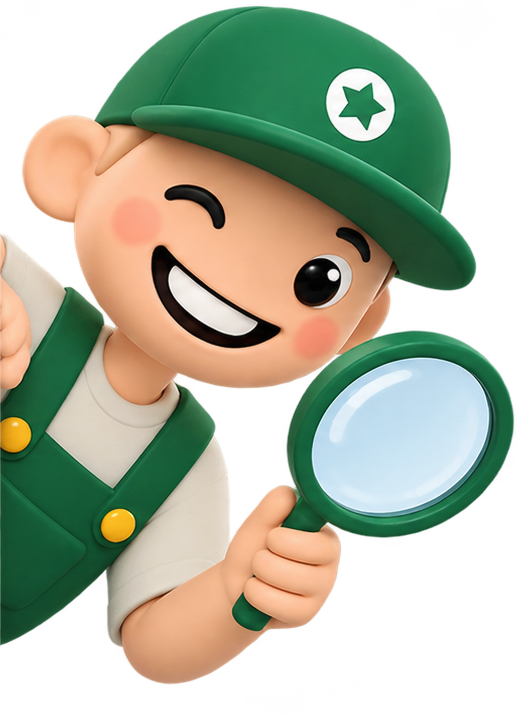
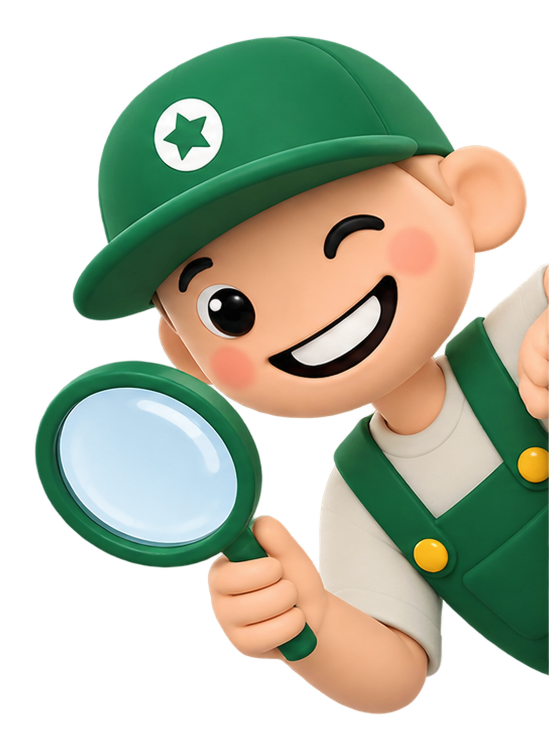
fix(hero): mirror 3D hero mascot with full canvas padding, fix 56px popular queries gap with borderless links, vertical mobile query dropdown list, and 100vh hero section hiding categories on initial load

diff --git a/css/style.css b/css/style.css
@@ -347,12 +347,12 @@ input, textarea, select {
    ========================================================================== */
 .hero {
   background-color: var(--bg-surface);
-  min-height: calc(100vh - 76px);
-  min-height: calc(100svh - 76px);
+  min-height: 100vh;
+  min-height: 100svh;
   display: flex;
   align-items: center;
   justify-content: center;
-  padding: 60px 0; /* Ample top and bottom breathing room */
+  padding: 130px 0 150px; /* Big top and bottom breathing room */
   border-bottom: 1px solid var(--border-light);
   position: relative;
   overflow: hidden;
@@ -364,9 +364,9 @@ input, textarea, select {
   position: absolute;
   right: 0;
   bottom: 0;
-  width: 520px;
-  height: 640px;
-  max-height: 90%;
+  height: 600px;
+  max-height: 82vh;
+  width: auto;
   z-index: 1; /* Graphic behind content */
   pointer-events: none;
   display: flex;
@@ -375,10 +375,11 @@ input, textarea, select {
 }
 
 .hero__mascot-img {
-  width: 100%;
   height: 100%;
+  width: auto;
   object-fit: contain;
   object-position: right bottom;
+  display: block;
   transform-origin: right bottom;
   transition: transform var(--transition-normal);
 }
@@ -489,47 +490,60 @@ input, textarea, select {
   box-shadow: 0 0 0 2px #ffffff, 0 6px 18px rgba(0, 0, 0, 0.16);
 }
 
-/* Popular queries: pushed noticeably lower down, NO grey borders or pills! */
+/* Popular queries: pushed noticeably lower down (56px gap), NO grey borders or pills! */
 .search-tags {
   display: flex;
-  align-items: center;
+  align-items: baseline;
   flex-wrap: wrap;
-  gap: 10px;
-  margin-top: 36px; /* Clearly separated from search bar */
+  gap: 12px;
+  margin-top: 56px !important; /* Clearly separated from search bar */
   position: relative;
   z-index: 6;
-  max-width: 680px;
-}
+  max-width: 720px;
 }
 
 .search-tags__title {
-  font-size: 14px;
+  font-size: 14.5px;
   font-weight: 600;
-  color: var(--text-muted);
-  margin-right: 4px;
+  color: #64748b;
+  margin-right: 6px;
   white-space: nowrap;
+}
+
+.search-tags__list {
+  display: inline-flex;
+  align-items: center;
+  flex-wrap: wrap;
+  gap: 16px;
 }
 
 /* Clean text links without grey borders/pills as requested */
 .tag-chip {
-  padding: 4px 8px;
-  background-color: transparent;
-  border: none;
-  border-radius: 6px;
-  font-size: 14px;
-  color: #64748b;
+  padding: 4px 2px;
+  background-color: transparent !important;
+  border: none !important;
+  box-shadow: none !important;
+  border-radius: 4px;
+  font-size: 14.5px;
+  color: #475569;
   text-decoration: underline;
-  text-decoration-color: rgba(148, 163, 184, 0.45);
+  text-decoration-color: rgba(100, 116, 139, 0.45);
   text-underline-offset: 4px;
   cursor: pointer;
   transition: color var(--transition-fast), text-decoration-color var(--transition-fast);
+  display: inline-flex;
+  align-items: center;
 }
 
 .tag-chip:hover, .tag-chip.active {
-  color: var(--primary);
-  text-decoration-color: var(--primary);
-  background-color: transparent;
+  color: var(--primary) !important;
+  text-decoration-color: var(--primary) !important;
+  background-color: transparent !important;
   font-weight: 500;
+}
+
+.tag-chip__arrow {
+  display: none;
 }
 
 /* ==========================================================================
@@ -1474,20 +1488,21 @@ input, textarea, select {
     grid-template-columns: repeat(3, 1fr);
   }
   .hero__mascot-edge {
-    width: 260px;
-    height: 260px;
+    height: 420px;
+    max-height: 60vh;
+    width: auto;
   }
 }
 
 @media (max-width: 768px) {
   .hero {
-    min-height: calc(100vh - 64px);
-    min-height: calc(100svh - 64px);
-    display: flex;
-    align-items: center;
-    justify-content: center;
-    padding: 36px 0;
-    box-sizing: border-box;
+    min-height: 100vh !important;
+    min-height: 100svh !important;
+    display: flex !important;
+    align-items: center !important;
+    justify-content: center !important;
+    padding: 80px 0 90px !important;
+    box-sizing: border-box !important;
   }
   .hero__content {
     max-width: 100%;
@@ -1500,11 +1515,11 @@ input, textarea, select {
     max-width: 100%; /* Spans across full width of screen as requested */
   }
   .hero__mascot-edge {
-    width: 210px;
-    height: 285px;
-    max-height: 55%;
-    bottom: 0;
-    right: 0;
+    height: 350px !important;
+    max-height: 50vh !important;
+    width: auto !important;
+    bottom: 0 !important;
+    right: 0 !important;
     opacity: 0.95;
   }
   /* In 1 single row on mobile: thick gray input plate + square green search button */
@@ -1539,55 +1554,74 @@ input, textarea, select {
   /* Mobile Popular Queries: vertical dropdown list, 1 line title, no gray pills */
   .search-tags {
     display: none;
-    position: absolute;
-    top: calc(100% + 8px);
-    left: 0;
-    right: 0;
-    width: 100%;
-    background: #ffffff;
-    border: 1px solid var(--border-light);
-    border-radius: 16px;
-    padding: 14px 12px;
-    margin-top: 0;
-    box-shadow: 0 12px 32px rgba(18, 22, 28, 0.14);
-    z-index: 60;
+    position: absolute !important;
+    top: calc(100% + 10px) !important;
+    left: 0 !important;
+    right: 0 !important;
+    width: 100% !important;
+    max-width: 100% !important;
+    background: #ffffff !important;
+    border: 1px solid var(--border-light) !important;
+    border-radius: 18px !important;
+    padding: 16px 14px !important;
+    margin-top: 0 !important;
+    box-shadow: 0 16px 40px rgba(18, 22, 28, 0.16) !important;
+    z-index: 80 !important;
   }
   .search-tags.search-tags--visible-mobile {
     display: flex !important;
     flex-direction: column !important;
     align-items: stretch !important;
-    gap: 4px !important;
+    gap: 6px !important;
     animation: fadeInDown 0.2s ease;
   }
   .search-tags__title {
     white-space: nowrap !important;
     font-size: 12.5px !important;
     font-weight: 700 !important;
-    color: var(--text-muted) !important;
+    color: #94a3b8 !important;
     text-transform: uppercase !important;
-    letter-spacing: 0.5px !important;
-    padding: 2px 8px 8px !important;
-    border-bottom: 1px solid var(--border-light) !important;
+    letter-spacing: 0.6px !important;
+    padding: 4px 10px 10px !important;
+    border-bottom: 1px solid #f1f5f9 !important;
     margin-bottom: 4px !important;
     display: block !important;
+  }
+  .search-tags__list {
+    display: flex !important;
+    flex-direction: column !important;
+    align-items: stretch !important;
+    gap: 4px !important;
+    width: 100% !important;
   }
   .tag-chip {
     display: flex !important;
     align-items: center !important;
+    justify-content: space-between !important;
     width: 100% !important;
-    padding: 11px 12px !important;
+    padding: 12px 14px !important;
     border-radius: 10px !important;
     background: transparent !important;
     border: none !important;
-    font-size: 14.5px !important;
+    box-shadow: none !important;
+    font-size: 15px !important;
     font-weight: 500 !important;
-    color: var(--text-main) !important;
+    color: #1e293b !important;
     text-decoration: none !important;
     cursor: pointer !important;
     text-align: left !important;
   }
+  .tag-chip__arrow {
+    display: block !important;
+    color: #cbd5e1 !important;
+    flex-shrink: 0 !important;
+  }
   .tag-chip:active, .tag-chip:hover {
-    background-color: var(--bg-subtle) !important;
+    background-color: #f8fafc !important;
+    color: var(--primary) !important;
+    text-decoration: none !important;
+  }
+  .tag-chip:active .tag-chip__arrow, .tag-chip:hover .tag-chip__arrow {
     color: var(--primary) !important;
   }
 

diff --git a/index.html b/index.html
@@ -4,7 +4,7 @@
   <meta charset="UTF-8">
   <meta name="viewport" content="width=device-width, initial-scale=1.0">
   <title>Профиум — Сервис проверенных специалистов и объявлений (DLE 19/20)</title>
-  <link rel="stylesheet" href="css/style.css">
+  <link rel="stylesheet" href="css/style.css?v=3.0">
   <link rel="preconnect" href="https://fonts.googleapis.com">
   <link rel="preconnect" href="https://fonts.gstatic.com" crossorigin>
   <link href="https://fonts.googleapis.com/css2?family=Inter:wght@400;500;600;700&display=swap" rel="stylesheet">
@@ -118,13 +118,33 @@
           </div>
 
           <div class="search-tags" id="searchTagsContainer">
-            <span class="search-tags__title">Популярные запросы</span>
-            <span class="tag-chip" onclick="navigateToCatalogQuery('Ремонт квартир')">Ремонт квартир</span>
-            <span class="tag-chip" onclick="navigateToCatalogQuery('Автоэлектрик')">Автоэлектрик</span>
-            <span class="tag-chip" onclick="navigateToCatalogQuery('Сантехник')">Сантехник</span>
-            <span class="tag-chip" onclick="navigateToCatalogQuery('Грузоперевозки')">Грузоперевозки</span>
-            <span class="tag-chip" onclick="navigateToCatalogQuery('Репетитор')">Репетитор ЕГЭ</span>
-            <span class="tag-chip" onclick="navigateToCatalogQuery('Потолки')">Натяжные потолки</span>
+            <div class="search-tags__title">Популярные запросы:</div>
+            <div class="search-tags__list">
+              <button type="button" class="tag-chip" onclick="navigateToCatalogQuery('Ремонт квартир')">
+                <span>Ремонт квартир</span>
+                <svg class="tag-chip__arrow" width="16" height="16" viewBox="0 0 24 24" fill="none" stroke="currentColor" stroke-width="2"><path d="M9 18l6-6-6-6"/></svg>
+              </button>
+              <button type="button" class="tag-chip" onclick="navigateToCatalogQuery('Автоэлектрик')">
+                <span>Автоэлектрик</span>
+                <svg class="tag-chip__arrow" width="16" height="16" viewBox="0 0 24 24" fill="none" stroke="currentColor" stroke-width="2"><path d="M9 18l6-6-6-6"/></svg>
+              </button>
+              <button type="button" class="tag-chip" onclick="navigateToCatalogQuery('Сантехник')">
+                <span>Сантехник</span>
+                <svg class="tag-chip__arrow" width="16" height="16" viewBox="0 0 24 24" fill="none" stroke="currentColor" stroke-width="2"><path d="M9 18l6-6-6-6"/></svg>
+              </button>
+              <button type="button" class="tag-chip" onclick="navigateToCatalogQuery('Грузоперевозки')">
+                <span>Грузоперевозки</span>
+                <svg class="tag-chip__arrow" width="16" height="16" viewBox="0 0 24 24" fill="none" stroke="currentColor" stroke-width="2"><path d="M9 18l6-6-6-6"/></svg>
+              </button>
+              <button type="button" class="tag-chip" onclick="navigateToCatalogQuery('Репетитор ЕГЭ')">
+                <span>Репетитор ЕГЭ</span>
+                <svg class="tag-chip__arrow" width="16" height="16" viewBox="0 0 24 24" fill="none" stroke="currentColor" stroke-width="2"><path d="M9 18l6-6-6-6"/></svg>
+              </button>
+              <button type="button" class="tag-chip" onclick="navigateToCatalogQuery('Натяжные потолки')">
+                <span>Натяжные потолки</span>
+                <svg class="tag-chip__arrow" width="16" height="16" viewBox="0 0 24 24" fill="none" stroke="currentColor" stroke-width="2"><path d="M9 18l6-6-6-6"/></svg>
+              </button>
+            </div>
           </div>
         </div>
       </div>
@@ -726,6 +746,6 @@
   <div class="toast-container" id="toastContainer"></div>
 
   <!-- Scripts -->
-  <script src="js/app.js"></script>
+  <script src="js/app.js?v=3.0"></script>
 </body>
 </html>

diff --git a/catalog.html b/catalog.html
@@ -4,7 +4,7 @@
   <meta charset="UTF-8">
   <meta name="viewport" content="width=device-width, initial-scale=1.0">
   <title>Каталог объявлений и специалистов — Профиум</title>
-  <link rel="stylesheet" href="css/style.css">
+  <link rel="stylesheet" href="css/style.css?v=3.0">
   <link rel="preconnect" href="https://fonts.googleapis.com">
   <link rel="preconnect" href="https://fonts.gstatic.com" crossorigin>
   <link href="https://fonts.googleapis.com/css2?family=Inter:wght@400;500;600;700&display=swap" rel="stylesheet">
@@ -692,6 +692,6 @@
   <div class="toast-container" id="toastContainer"></div>
 
   <!-- Scripts -->
-  <script src="js/catalog.js"></script>
+  <script src="js/catalog.js?v=3.0"></script>
 </body>
 </html>
